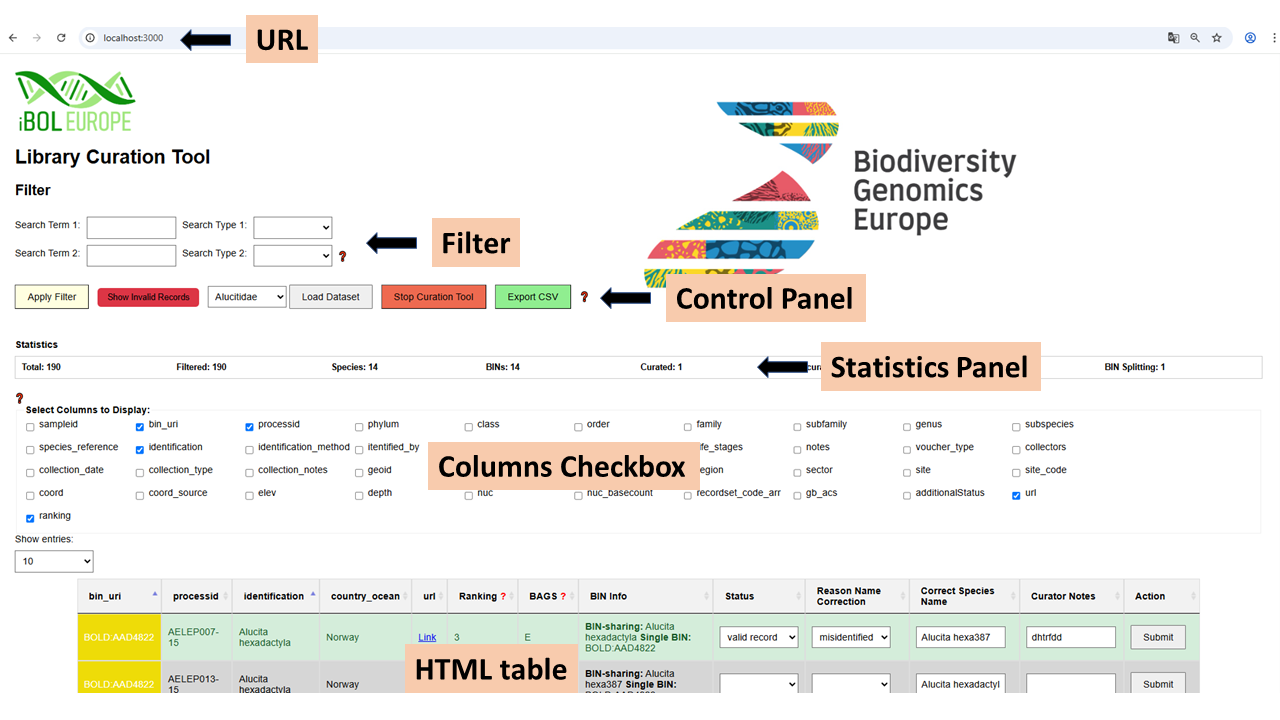
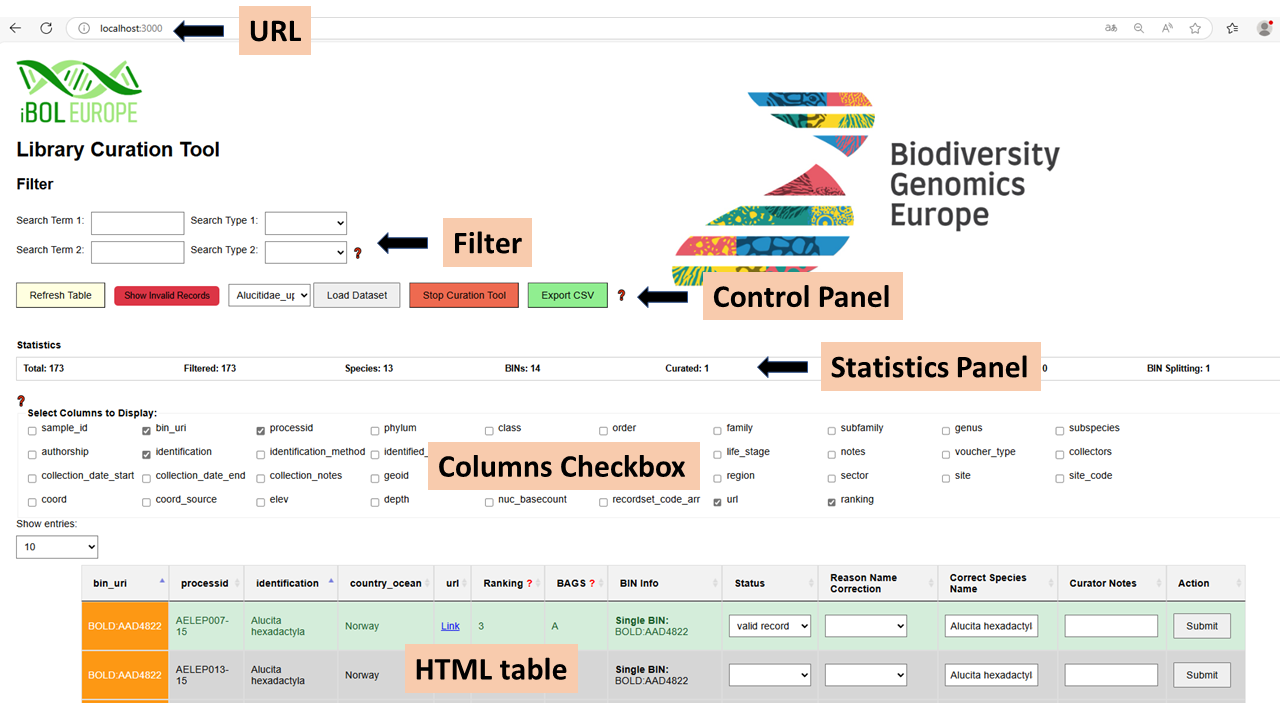
Refresh Table and binary data removed

diff --git a/user_manual_windows.html b/user_manual_windows.html
@@ -141,7 +141,7 @@ ProjectFolder/
   </ol>
   
   <ol>
-  <strong> To load and switch between datasets:</strong> Choose the corresponding dataset from the <strong>dropdown</strong>, click <strong>Load dataset</strong>, confirm the popup with <strong>OK</strong>, then click <strong>Apply Filter</strong> to view the new dataset. If a db file already exists, this file will be used. <b> This should be the standard in the BGE project. </b> <br> Otherwise a db file will be generated from the xml file. <strong>This may take a while.</strong> In this case make sure that you wait until the file is <strong>complete</strong> (the size of the corresponding db file in the subfolder data should not change anymore) and press the <strong>Apply Filter</strong> button to refresh the HTML table. Alternatively, you can press the <strong>Apply Filter</strong> button from time to time, until the amount of total records in the statistics panel is stable.
+  <strong> To load and switch between datasets:</strong> Choose the corresponding dataset from the <strong>dropdown</strong>, click <strong>Load dataset</strong>, confirm the popup with <strong>OK</strong>, then click <strong>Refresh Table</strong> to view the new dataset. If a db file already exists, this file will be used. <b> This should be the standard in the BGE project. </b> <br> Otherwise a db file will be generated from the xml file. <strong>This may take a while.</strong> In this case make sure that you wait until the file is <strong>complete</strong> (the size of the corresponding db file in the subfolder data should not change anymore) and press the <strong>Refresh Table</strong> button to refresh the HTML table. Alternatively, you can press the <strong>Refresh Table</strong> button from time to time, until the amount of total records in the statistics panel is stable.
   </ol> 
 
   <h2 id="usage">4. Using the Tool</h2>
@@ -154,14 +154,14 @@ ProjectFolder/
     <tr><th>Button / Field</th><th>Function</th></tr>
     <tr><th>Filter</th></tr>
     <tr><td><img src="public/ressources/user_manual/search_field.png" alt="Search Field:"><img src="public/ressources/user_manual/search_type.png" alt="Search Type:">
-    </td><td><ul>Enter a value in the <b>Search Term</b> field.</ul><ul>Check a box with the <b>Search Type</b> you wish in <b>Select Columns to Display:</b> to make it available in the Search Type dropdown menu.</ul><ul>Select a corresponding <b>Search Type</b> from the dropdown menu.</ul><ul>If needed, you can use Search Term 2 and its corresponding Search Type to add an additional filter.</ul><ul>Click <b>Apply Filter</b> to display results matching your criteria.</ul></td></tr>
+    </td><td><ul>Enter a value in the <b>Search Term</b> field.</ul><ul>Check a box with the <b>Search Type</b> you wish in <b>Select Columns to Display:</b> to make it available in the Search Type dropdown menu.</ul><ul>Select a corresponding <b>Search Type</b> from the dropdown menu.</ul><ul>If needed, you can use Search Term 2 and its corresponding Search Type to add an additional filter.</ul><ul>Click <b>Refresh Table</b> to display results matching your criteria.</ul></td></tr>
     <tr><th>Control Panel</th></tr>
-    <tr><td><img src="public/ressources/user_manual/apply_filter.png" alt="Apply Filter"></td>
+    <tr><td><img src="public/ressources/user_manual/apply_filter.png" alt="Refresh Table"></td>
       <td>Filters the records based on your selected criteria and displays the results. / Refreshes the HTML-table</td></tr>
     <tr><td><img src="public/ressources/user_manual/hide.png" alt="Show/Hide Invalid Records"></td>
       <td>Toggles the visibility of rows marked with a red background (Status = invalid record or exclude species)</td></tr>  
     <tr><td><img src="public/ressources/user_manual/available_data.png" alt="Available data"><img src="public/ressources/user_manual/switch.png" alt="Switch Dataset"></td>
-      <td>To load or switch between datasets: Select one from the dropdown, click <b>Load Dataset</b>, confirm the popup with <b>OK</b>, then click <b>Apply Filter</b> to view the new dataset (in this case Alucitidae)</td></tr>
+      <td>To load or switch between datasets: Select one from the dropdown, click <b>Load Dataset</b>, confirm the popup with <b>OK</b>, then click <b>Refresh Table</b> to view the new dataset (in this case Alucitidae)</td></tr>
     <tr><td><img src="public/ressources/user_manual/stop.png" alt="Stop Curation Tool"></td>
       <td>Stop the server running in the backend. Use this only if you want to end the Library Curation Tool.</td></tr>
     <tr><td><img src="public/ressources/user_manual/export_csv.png" alt="Export CSV"></td>
@@ -189,7 +189,7 @@ ProjectFolder/
     <tr><td><img src="public/ressources/user_manual/link.png" alt="Link"></td>
       <td>Direct link to the corresponding record on <a href="https://portal.boldsystems.org" target="_blank">https://portal.boldsystems.org</a>.</td></tr>
     <tr><td><img src="public/ressources/user_manual/status.png" alt="Status - dropdown"></td>
-      <td><b>Status - dropdown:</b> Mark records as <b>valid</b> or <b>invalid</b> and <b>exclude species</b> or <b>reinclude species</b> (a popup window will open and ask you if you are sure that you want to remove this species).Save changes by pressing the <b>Submit</b> button. Press the <b>Apply Filter</b> button to refresh the HTML-table and see the changes. Records marked as <u>valid appear green</u> and such marked as <u>invalid in red and will be hidden</u>. The number of BINs and records in the Statistics Panel is adjusted accordingly. Press the <b>Show/Hide Invalid Records</b> button to show them again (maybe you have to press the button several times to see a result).</td></tr>
+      <td><b>Status - dropdown:</b> Mark records as <b>valid</b> or <b>invalid</b> and <b>exclude species</b> or <b>reinclude species</b> (a popup window will open and ask you if you are sure that you want to remove this species).Save changes by pressing the <b>Submit</b> button. Press the <b>Refresh Table</b> button to refresh the HTML-table and see the changes. Records marked as <u>valid appear green</u> and such marked as <u>invalid in red and will be hidden</u>. The number of BINs and records in the Statistics Panel is adjusted accordingly. Press the <b>Show/Hide Invalid Records</b> button to show them again (maybe you have to press the button several times to see a result).</td></tr>
     <tr><td><img src="public/ressources/user_manual/name_correction.png" alt="Reason Name Correction - dropdown"></td>
       <td><b>Reason name correction - dropdown:</b> select a reason from the dropdown, if you correct a species name: <u>misidentified or no selection allows the correction of the species name for a single row synonym and typo will correct the species name for the whole selected species</u></td></tr>
     <tr><td><img src="public/ressources/user_manual/correctspeciesname.png" alt="Correct Species Name"></td>
@@ -207,7 +207,7 @@ ProjectFolder/
     <li>Select a column in the <strong>Columns Checkbox field</strong>.</li>
     <li>Type a search term in <strong>Search Term</strong>.</li>
     <li>Choose the corresponding <strong>Search Type</strong> from the dropdown.</li>
-    <li>Click <strong>Apply Filter</strong> to update results.</li>
+    <li>Click <strong>Refresh Table</strong> to update results.</li>
     <li>Use the second <strong>Search Term</strong> and <strong>Search Type</strong>to refine results.</li>
   </ol>
   <p><img src="public/ressources/user_manual/filter_field.png" alt="Search Fields (Search Term and Search Type)"></p>
@@ -228,7 +228,7 @@ ProjectFolder/
     <li><b>Shows predefined the following columns:</b> bin_uri, processid, identification (current species name), Country_Ocean, Ranking, BAGS, BIN info, url, Status, Reason name correction, Correct species name, Curator_notes and Actions.</li>
     <div class="warning"><b>Important:</b> <b>Records highlighted in grey (Ranking 1-3)</b> are pre-selected for the reference library. You don't need to validate them. If you want to exclude them, set them as invalid. <b>Records not highlighted (with white background, Ranking 4-6)</b> are not intended to be part of the Reference Library. If you want to include them, please validate them.</div>
     <p><img src="public/ressources/user_manual/records_highlighted.png" alt="Highlighted Records in grey"></p>
-    <li><b>Add further columns</b> by checking the corresponding checkboxes in the <strong>Columns Checkbox field</strong> and press <strong>Apply Filter</strong>.</li>
+    <li><b>Add further columns</b> by checking the corresponding checkboxes in the <strong>Columns Checkbox field</strong> and press <strong>Refresh Table</strong>.</li>
     <li><strong>BIN Info:</strong> Dynamically shows BIN-sharing and BIN-splitting events for the corresponding record and lists with which species BINs are shared and/or the BINs belonging to this/these species. If you exclude records or species the values will be recalculated.</li>
     <li><strong>Link:</strong> Press <strong>Link</strong> in the <strong>url column</strong> and a new tab with the corresponding record on the BOLD homepage will open.</li>    
   </ul>
@@ -236,11 +236,11 @@ ProjectFolder/
   <h3 id="changes">4.7. Submitting changes</h3>
   <ul>
     <div class="warning"><b>Important:</b> Please save all changes you make by pressing the <strong>Submit button</strong> at the end of the line or the <strong>Submit All on Page</strong> button at the end of the page!!!</div>
-    <li><strong>Status:</strong> You can mark records as valid or invalid by choosing the corresponding option from the <strong>Status dropdown menu</strong> and pressing the <strong>Submit</strong> button. Your change will be saved to the logfile and the database. However, you will only see a change, if you press the <strong>Apply Filter</strong> button to refresh the HTML-table. Records marked as valid appear green and such marked as invalid in red and will be hidden. The number of BINs and records in the <strong>Statistics Panel</strong> is adjusted accordingly. Press the <strong>Show/Hide Invalid Records</strong> button to show them again (maybe you have to press the button several times to see a result). 
+    <li><strong>Status:</strong> You can mark records as valid or invalid by choosing the corresponding option from the <strong>Status dropdown menu</strong> and pressing the <strong>Submit</strong> button. Your change will be saved to the logfile and the database. However, you will only see a change, if you press the <strong>Refresh Table</strong> button to refresh the HTML-table. Records marked as valid appear green and such marked as invalid in red and will be hidden. The number of BINs and records in the <strong>Statistics Panel</strong> is adjusted accordingly. Press the <strong>Show/Hide Invalid Records</strong> button to show them again (maybe you have to press the button several times to see a result). 
     <p><img src="public/ressources/user_manual/status_color.png" alt="Valid and Invalid Records coloration"></p>
-    Further you can exclude and also reinclude a whole species by selecting the option exclude species or reinclude species from the <strong>Status dropdown menu</strong>. When you press the <strong>Submit</strong> button a popup window will open and ask you if you are sure that you want to remove this species. Finish the action by pressing the <strong>Submit</strong> button. The HTML-table shows your changes only after refreshing by pressing the <strong>Apply Filter</strong> button.</li>
-    <li><strong>Correct species name:</strong> In order to correct a species name, select a reason from the dropdown menu in <strong>Reason name correction</strong>.  This will have different effects on the <strong>Correct species name</strong> fields: misidentified or no selection allows the correction of the species name for a single row, synonym and typo will correct the species name for the whole selected species. Then correct the name in the field <strong>Correct species name</strong>. Finish the action by pressing the <strong>Submit</strong> button. The HTML-table shows your changes only after refreshing by pressing the Apply Filter button.</li>
-    <li><strong>General:</strong> Save your changes by pressing the <strong>Submit</strong> button. The action will be saved to the logfile and the database. However, you will see no changes in the HTML-table, until you refresh the table by pressing the <strong>Apply Filter</strong> button.</li>
+    Further you can exclude and also reinclude a whole species by selecting the option exclude species or reinclude species from the <strong>Status dropdown menu</strong>. When you press the <strong>Submit</strong> button a popup window will open and ask you if you are sure that you want to remove this species. Finish the action by pressing the <strong>Submit</strong> button. The HTML-table shows your changes only after refreshing by pressing the <strong>Refresh Table</strong> button.</li>
+    <li><strong>Correct species name:</strong> In order to correct a species name, select a reason from the dropdown menu in <strong>Reason name correction</strong>.  This will have different effects on the <strong>Correct species name</strong> fields: misidentified or no selection allows the correction of the species name for a single row, synonym and typo will correct the species name for the whole selected species. Then correct the name in the field <strong>Correct species name</strong>. Finish the action by pressing the <strong>Submit</strong> button. The HTML-table shows your changes only after refreshing by pressing the Refresh Table button.</li>
+    <li><strong>General:</strong> Save your changes by pressing the <strong>Submit</strong> button. The action will be saved to the logfile and the database. However, you will see no changes in the HTML-table, until you refresh the table by pressing the <strong>Refresh Table</strong> button.</li>
     <li><b>Curator_notes:</b> This is a free text field, where you can add additional information. Press <strong>Submit</strong> to save.</li>
   </ul>
 

diff --git a/server.js b/server.js
@@ -96,8 +96,7 @@ async function initDatabaseAndLoadData(xmlPath, database) {
                     : [result.records.record];
 
                 database.run(`CREATE TABLE IF NOT EXISTS records (                   
-                    url TEXT,
-                    keep TEXT,
+                    url TEXT,                    
                     ranking TEXT,
                     BAGS TEXT,
                     status TEXT,
@@ -142,7 +141,7 @@ async function initDatabaseAndLoadData(xmlPath, database) {
                     specimen_linkout TEXT,
                     associated_specimens TEXT,
                     associated_taxa TEXT,
-                    collection_date TEXT,
+                    collectors TEXT,
                     collection_date_start TEXT,
                     collection_date_end TEXT,
                     collection_date_accuracy TEXT,
@@ -165,14 +164,11 @@ async function initDatabaseAndLoadData(xmlPath, database) {
                     depth TEXT,
                     depth_accuracy TEXT,
                     habitat TEXT,
-                    sampling_protocol TEXT,
-                    nuc TEXT,
+                    sampling_protocol TEXT,                    
                     nuc_basecount TEXT,
                     insdc_acs TEXT,
                     funding_src TEXT,
-                    marker_code TEXT,
-                    primers_forward TEXT,
-                    primers_reverse TEXT,
+                    marker_code TEXT,                    
                     sequence_run_site TEXT,
                     sequence_upload_date TEXT,
                     recordset_code_arr TEXT,
@@ -180,17 +176,7 @@ async function initDatabaseAndLoadData(xmlPath, database) {
                     country TEXT,
                     collection_note TEXT,
                     associated_specimen TEXT,                    
-                    nucraw TEXT,
-                    SPECIES_ID TEXT,
-                    TYPE_SPECIMEN TEXT,
-                    SEQ_QUALITY TEXT,
-                    HAS_IMAGE TEXT,
-                    COLLECTORS TEXT,
-                    IDENTIFIER TEXT,
-                    ID_METHOD TEXT,
-                    INSTITUTION TEXT,
-                    PUBLIC_VOUCHER TEXT,
-                    MUSEUM_ID TEXT,
+                    nucraw TEXT,                    
                     additionalStatus TEXT,
                     curator_notes TEXT
 
@@ -198,38 +184,34 @@ async function initDatabaseAndLoadData(xmlPath, database) {
                     if (createErr) return reject(`Error creating table: ${createErr}`);
 
                     const insertStmt = database.prepare(`INSERT OR REPLACE INTO records ( 
-                        url, keep, ranking, BAGS, status, recordid, taxonid, processid, sampleid, fieldid, museumid, record_id, specimenid,
+                        url, ranking, BAGS, status, recordid, taxonid, processid, sampleid, fieldid, museumid, record_id, specimenid,
                         processid_minted_date, bin_uri, bin_created_date, collection_code, inst, taxid, kingdom, phylum, class, "order",
                         family, subfamily, tribe, genus, species, subspecies, species_reference, identification, identification_method,
                         identification_rank, identified_by, identifier_email, taxonomy_notes, sex, reproduction, life_stage, short_note,
-                        notes, voucher_type, tissue_type, specimen_linkout, associated_specimens, associated_taxa, collection_date, collection_date_start,
+                        notes, voucher_type, tissue_type, specimen_linkout, associated_specimens, associated_taxa, collectors, collection_date_start,
                         collection_date_end, collection_date_accuracy, collection_event_id, collection_time, collection_notes, geoid, country_ocean,
                         country_iso, province_state, region, sector, site, site_code, coord, coord_accuracy, coord_source, elev, elev_accuracy,
-                        depth, depth_accuracy, habitat, sampling_protocol, nuc, nuc_basecount, insdc_acs, funding_src, marker_code,
-                        primers_forward, primers_reverse, sequence_run_site, sequence_upload_date, recordset_code_arr, extrainfo, country,
-                        collection_note, associated_specimen, nucraw, SPECIES_ID, TYPE_SPECIMEN, SEQ_QUALITY, HAS_IMAGE, COLLECTORS,
-                        IDENTIFIER, ID_METHOD, INSTITUTION, PUBLIC_VOUCHER, MUSEUM_ID, curator_notes
-                    ) VALUES (?, ?, ?, ?, ?, ?, ?, ?, ?, ?, ?, ?, ?, ?, ?, ?, ?, ?, ?, ?, ?, ?, ?, ?, ?, ?, ?, ?, ?, ?, ?, ?, ?, ?, ?, ?, ?, ?, ?, ?, ?, ?, ?, ?, ?, ?, ?, ?, ?, ?, ?, ?, ?, ?, ?, ?, ?, ?, ?, ?, ?, ?, ?, ?, ?, ?, ?, ?, ?, ?, ?, ?, ?, ?, ?, ?, ?, ?, ?, ?, ?, ?, ?, ?, ?, ?, ?, ?, ?, ?, ?, ?, ?, ?, ?, ?)`);
+                        depth, depth_accuracy, habitat, sampling_protocol, nuc_basecount, insdc_acs, funding_src, marker_code, sequence_run_site, 
+                        sequence_upload_date, recordset_code_arr, extrainfo, country, collection_note, associated_specimen, nucraw, curator_notes, additionalStatus
+                    ) VALUES (?, ?, ?, ?, ?, ?, ?, ?, ?, ?, ?, ?, ?, ?, ?, ?, ?, ?, ?, ?, ?, ?, ?, ?, ?, ?, ?, ?, ?, ?, ?, ?, ?, ?, ?, ?, ?, ?, ?, ?, ?, ?, ?, ?, ?, ?, ?, ?, ?, ?, ?, ?, ?, ?, ?, ?, ?, ?, ?, ?, ?, ?, ?, ?, ?, ?, ?, ?, ?, ?, ?, ?, ?, ?, ?, ?, ?, ?, ?, ?, ?, ?, ?)`);
 
                     records.forEach(record => {
                         const values = [
                             record.processid ? `https://portal.boldsystems.org/record/${record.processid}` : null,
-                            record.keep, record.ranking, record.BAGS, record.status, record.recordid, record.taxonid, record.processid, record.sampleid,
+                            record.ranking, record.BAGS, record.status, record.recordid, record.taxonid, record.processid, record.sampleid,
                             record.fieldid, record.museumid, record.record_id, record.specimenid,
                             record.processid_minted_date, record.bin_uri, record.bin_created_date, record.collection_code, record.inst, record.taxid,
                             record.kingdom, record.phylum, record.class, record["order"], record.family, record.subfamily, record.tribe, record.genus,
                             record.species, record.subspecies, record.species_reference, record.identification, record.identification_method,
                             record.identification_rank, record.identified_by, record.identifier_email, record.taxonomy_notes, record.sex, record.reproduction,
                             record.life_stage, record.short_note, record.notes, record.voucher_type, record.tissue_type, record.specimen_linkout,
-                            record.associated_specimens, record.associated_taxa, record.collection_date, record.collection_date_start, record.collection_date_end,
+                            record.associated_specimens, record.associated_taxa, record.collectors, record.collection_date_start, record.collection_date_end,
                             record.collection_date_accuracy, record.collection_event_id, record.collection_time, record.collection_notes, record.geoid,
                             record.country_ocean, record.country_iso, record.province_state, record.region, record.sector, record.site, record.site_code,
                             record.coord, record.coord_accuracy, record.coord_source, record.elev, record.elev_accuracy, record.depth, record.depth_accuracy,
-                            record.habitat, record.sampling_protocol, record.nuc, record.nuc_basecount, record.insdc_acs, record.funding_src,
-                            record.marker_code, record.primers_forward, record.primers_reverse, record.sequence_run_site, record.sequence_upload_date,
-                            record.recordset_code_arr, record.extrainfo, record.country, record.collection_note, record.associated_specimen,
-                            record.nucraw, record.SPECIES_ID, record.TYPE_SPECIMEN, record.SEQ_QUALITY, record.HAS_IMAGE, record.COLLECTORS,
-                            record.IDENTIFIER, record.ID_METHOD, record.INSTITUTION, record.PUBLIC_VOUCHER, record.MUSEUM_ID, record.curator_notes
+                            record.habitat, record.sampling_protocol, record.nuc_basecount, record.insdc_acs, record.funding_src,
+                            record.marker_code, record.sequence_run_site, record.sequence_upload_date, record.recordset_code_arr, record.extrainfo, record.country, 
+                            record.collection_note, record.associated_specimen, record.nucraw, record.curator_notes, record.additionalStatus
                         ].map(value => typeof value === 'object' ? JSON.stringify(value) : value || null);
 
                         insertStmt.run(values);
@@ -920,7 +902,7 @@ app.post('/download-csv', express.json(), (req, res) => {
         const allKeys = Array.from(new Set(rows.flatMap(row => Object.keys(row))));
 
         // Step 2: Config
-        const excluded = new Set(['keep', 'BAGS']);
+        const excluded = new Set(['BAGS']);
         const renamed = {
             'additionalStatus': 'reason name correction',
             'species': 'correct species name',

diff --git a/public/index.html b/public/index.html
@@ -174,7 +174,7 @@
                 <li>Check a box with the <b>Search Type</b> you wish in <b>Select Columns to Display:</b> to make it available in <b>Search Type</b> dropdown menu.
                 <li>Select a corresponding <b>Search Type</b> from the dropdown menu.</li>
                 <li>If needed, you can use <b>Search Term 2</b> and its corresponding <b>Search Type</b> to add an additional filter.</li>
-                <li>Click <b>Apply Filter</b> to display results matching your criteria.</li>
+                <li>Click <b>Refresh Table</b> to display results matching your criteria.</li>
             </ul>
         </div>
     </div>   
@@ -198,9 +198,9 @@
         <div id="buttonsInfo" style="display: none; background-color: #f9f9f9; border: 1px solid #ddd; padding: 10px; border-radius: 5px; margin-top: 10px;">
             <strong>Explanation of Buttons:</strong>
             <ul>
-                <li><b>Apply Filter:</b> Filters the records based on your selected criteria and displays the results. / Refreshs the HTML-table</li>
+                <li><b>Refresh Table:</b> Filters the records based on your selected criteria and displays the results. / Refreshs the HTML-table</li>
                 <li><b>Show/Hide Invalid Records:</b> Toggles the visibility of rows marked with a red background (Status = invalid record or exclude species).</li>
-                <li><b>Load Dataset:</b> To load datasets: Select one from the dropdown, click 'Load dataset', confirm the popup with 'OK', then click 'Apply Filter' to view the new dataset.</li>                
+                <li><b>Load Dataset:</b> To load datasets: Select one from the dropdown, click 'Load dataset', confirm the popup with 'OK', then click 'Refresh Table' to view the new dataset.</li>                
                 <li><b>Stop Curation Tool:</b> Stops the server running in the backend. Use this only if you want to end the Library Curation Tool.</li>
                 <li><b>Export CSV:</b> Export the database as a CSV file. Selected columns (in Select Columns to Display) will be included; if none are selected, all columns will be exported.</li>
             </ul>            
@@ -208,7 +208,7 @@
     </div>
         <div class="server-control">
         <form id="serverControlForm">            
-            <button type="button" onclick="applyFilter()" style="background-color: lightyellow; color: black;">Apply Filter</button>
+            <button type="button" onclick="applyFilter()" style="background-color: lightyellow; color: black;">Refresh Table</button>
             <button id="toggleInvalidButton" onclick="toggleInvalidRecords()" class="hiding">Show Invalid Records</button>            
             <select id="dataset-selector"></select>
             <button onclick="switchDataset()">Load Dataset</button>
@@ -275,7 +275,7 @@
             <div id="columnsInfo" style="display: none; background-color: #f9f9f9; border: 1px solid #ddd; padding: 10px; border-radius: 5px; margin-top: 10px;">
                 <strong>How to use "Select Columns to Display":</strong>
                 <ul>
-                    <li>Check the boxes next to the column names you want to display in the table and press <b>Apply Filter</b> to refresh the HTML-table.</li>
+                    <li>Check the boxes next to the column names you want to display in the table and press <b>Refresh Table</b> to refresh the HTML-table.</li>
                     <li>Unchecked columns will not be visible in the table.</li>
                     <li>The table dynamically updates to reflect the selected columns.</li>
                     <li>This feature allows you to customize the table view for better focus on relevant data.</li>
